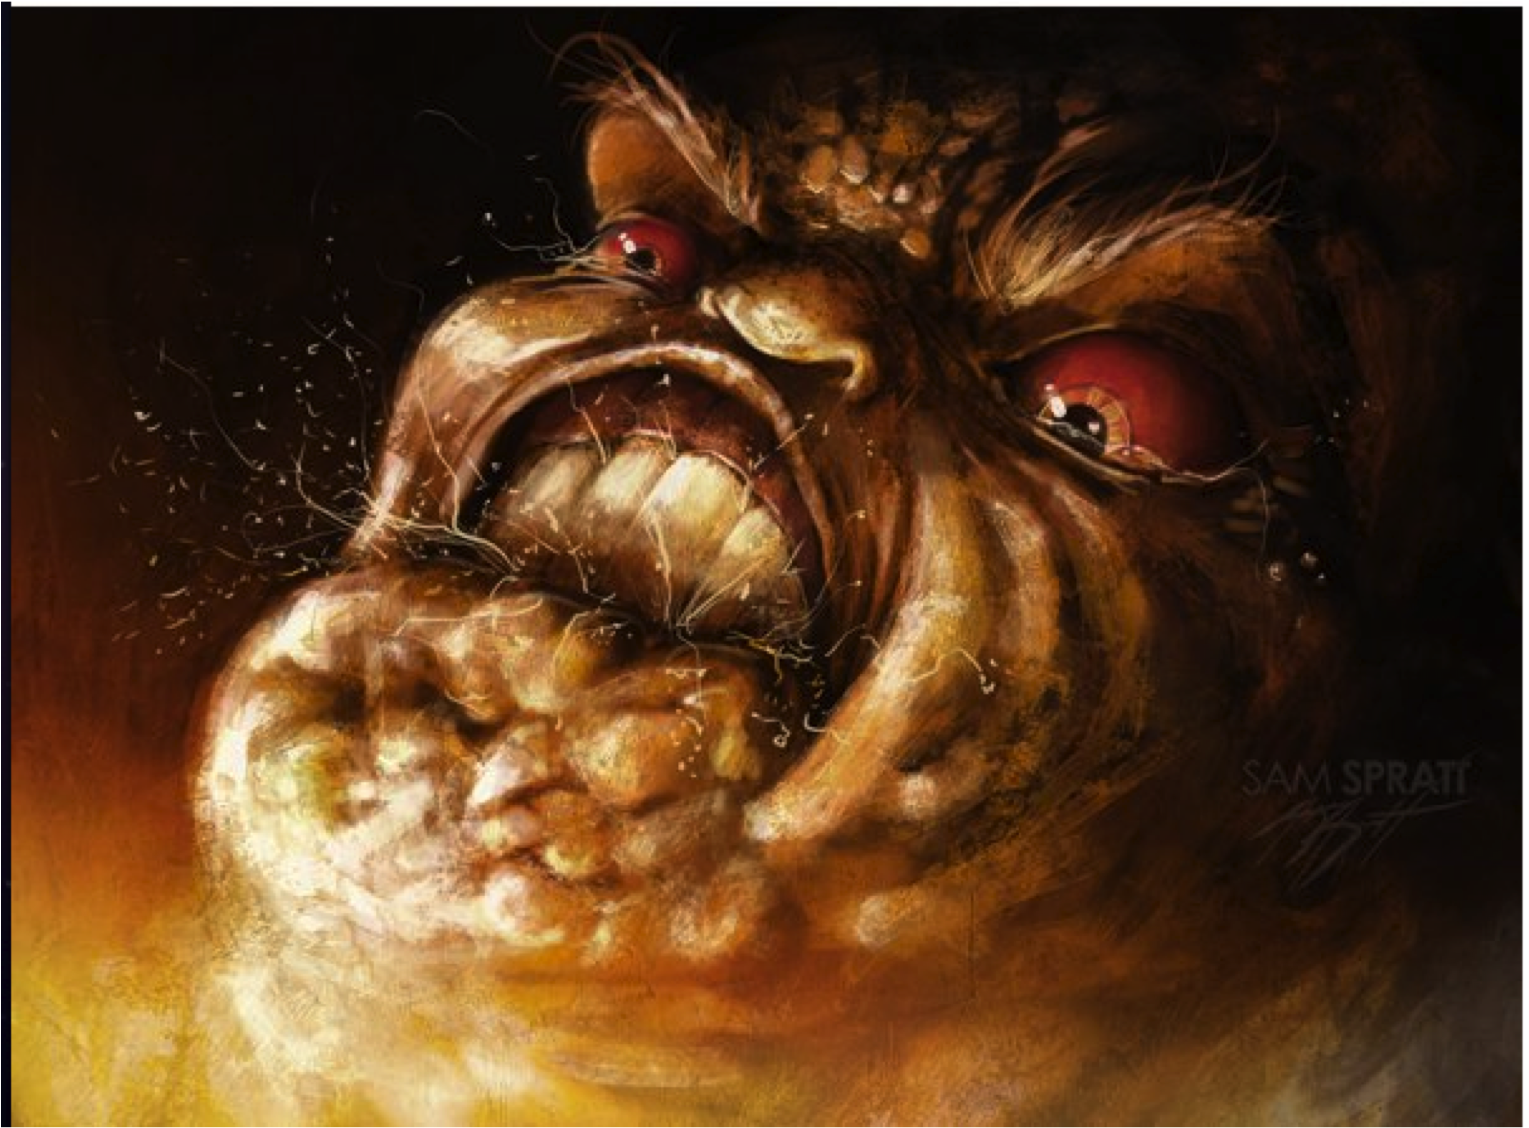
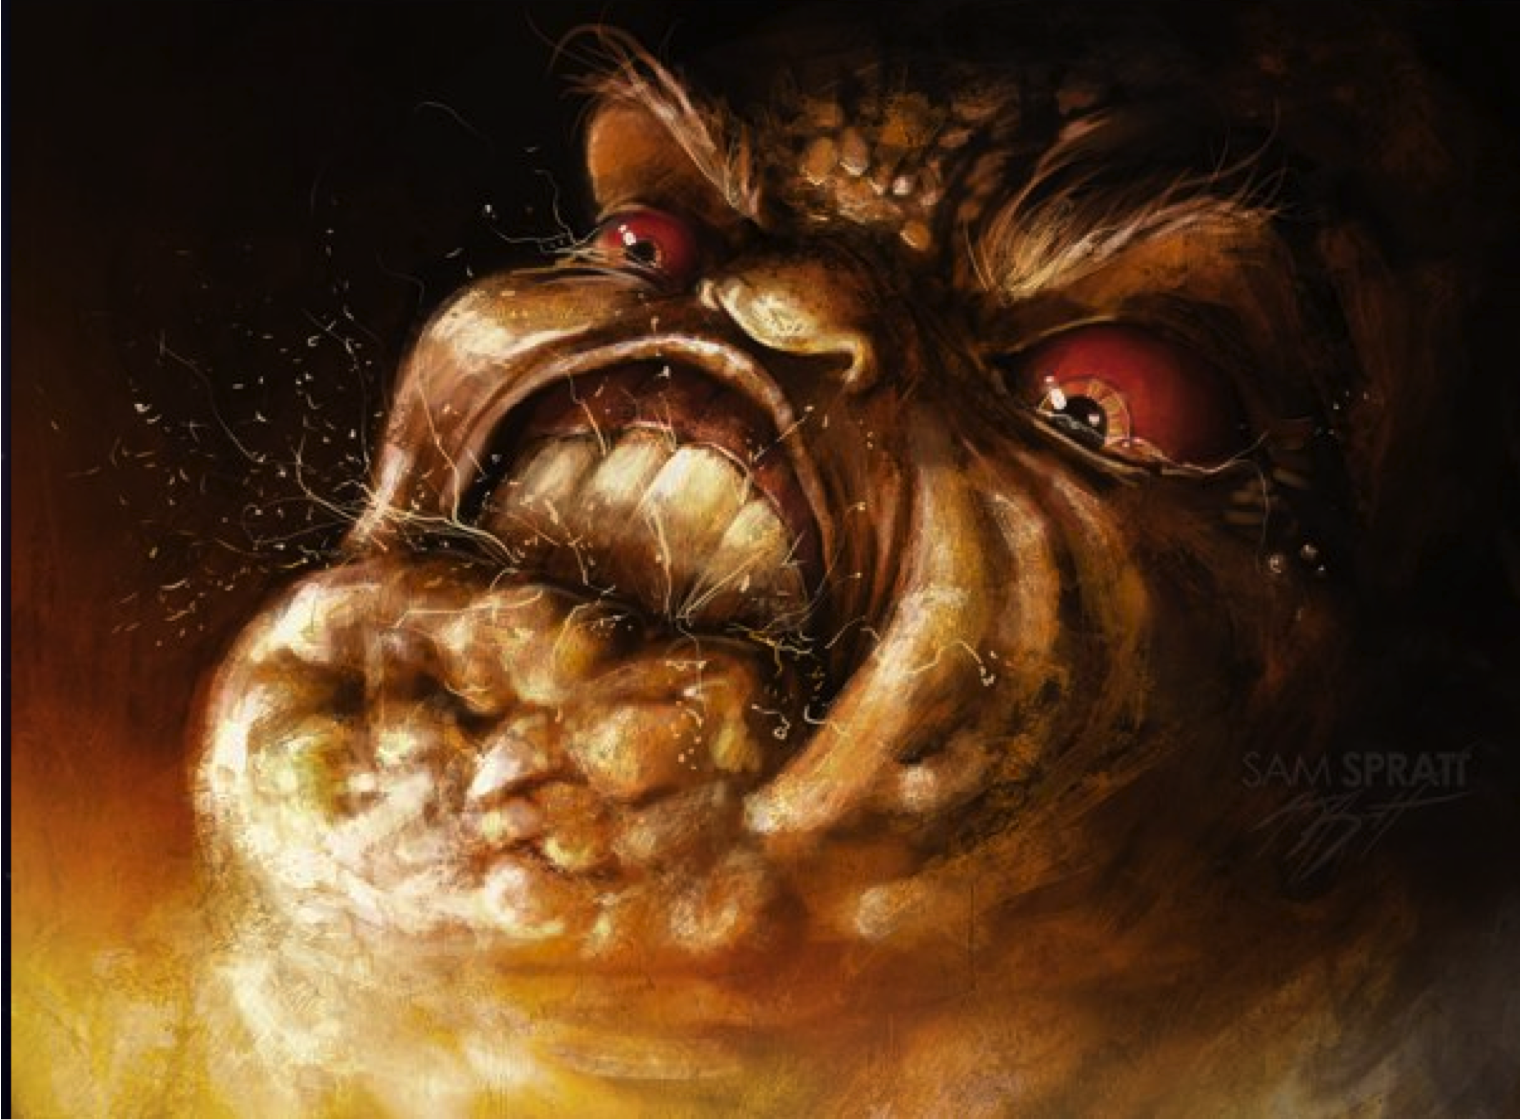
added server and adjusted rage image

diff --git a/masquerade.rb b/masquerade.rb
@@ -1,0 +1,14 @@
+require 'rubygems'
+require 'sinatra'
+
+set :public, Proc.new { File.join(root, "_site") }
+
+# This before filter ensures that your pages are only ever served 
+# once (per deploy) by Sinatra, and then by Varnish after that
+before do
+  response.headers['Cache-Control'] = 'public, max-age=86400'
+end
+
+get '/' do
+  File.read('index.html')
+end
